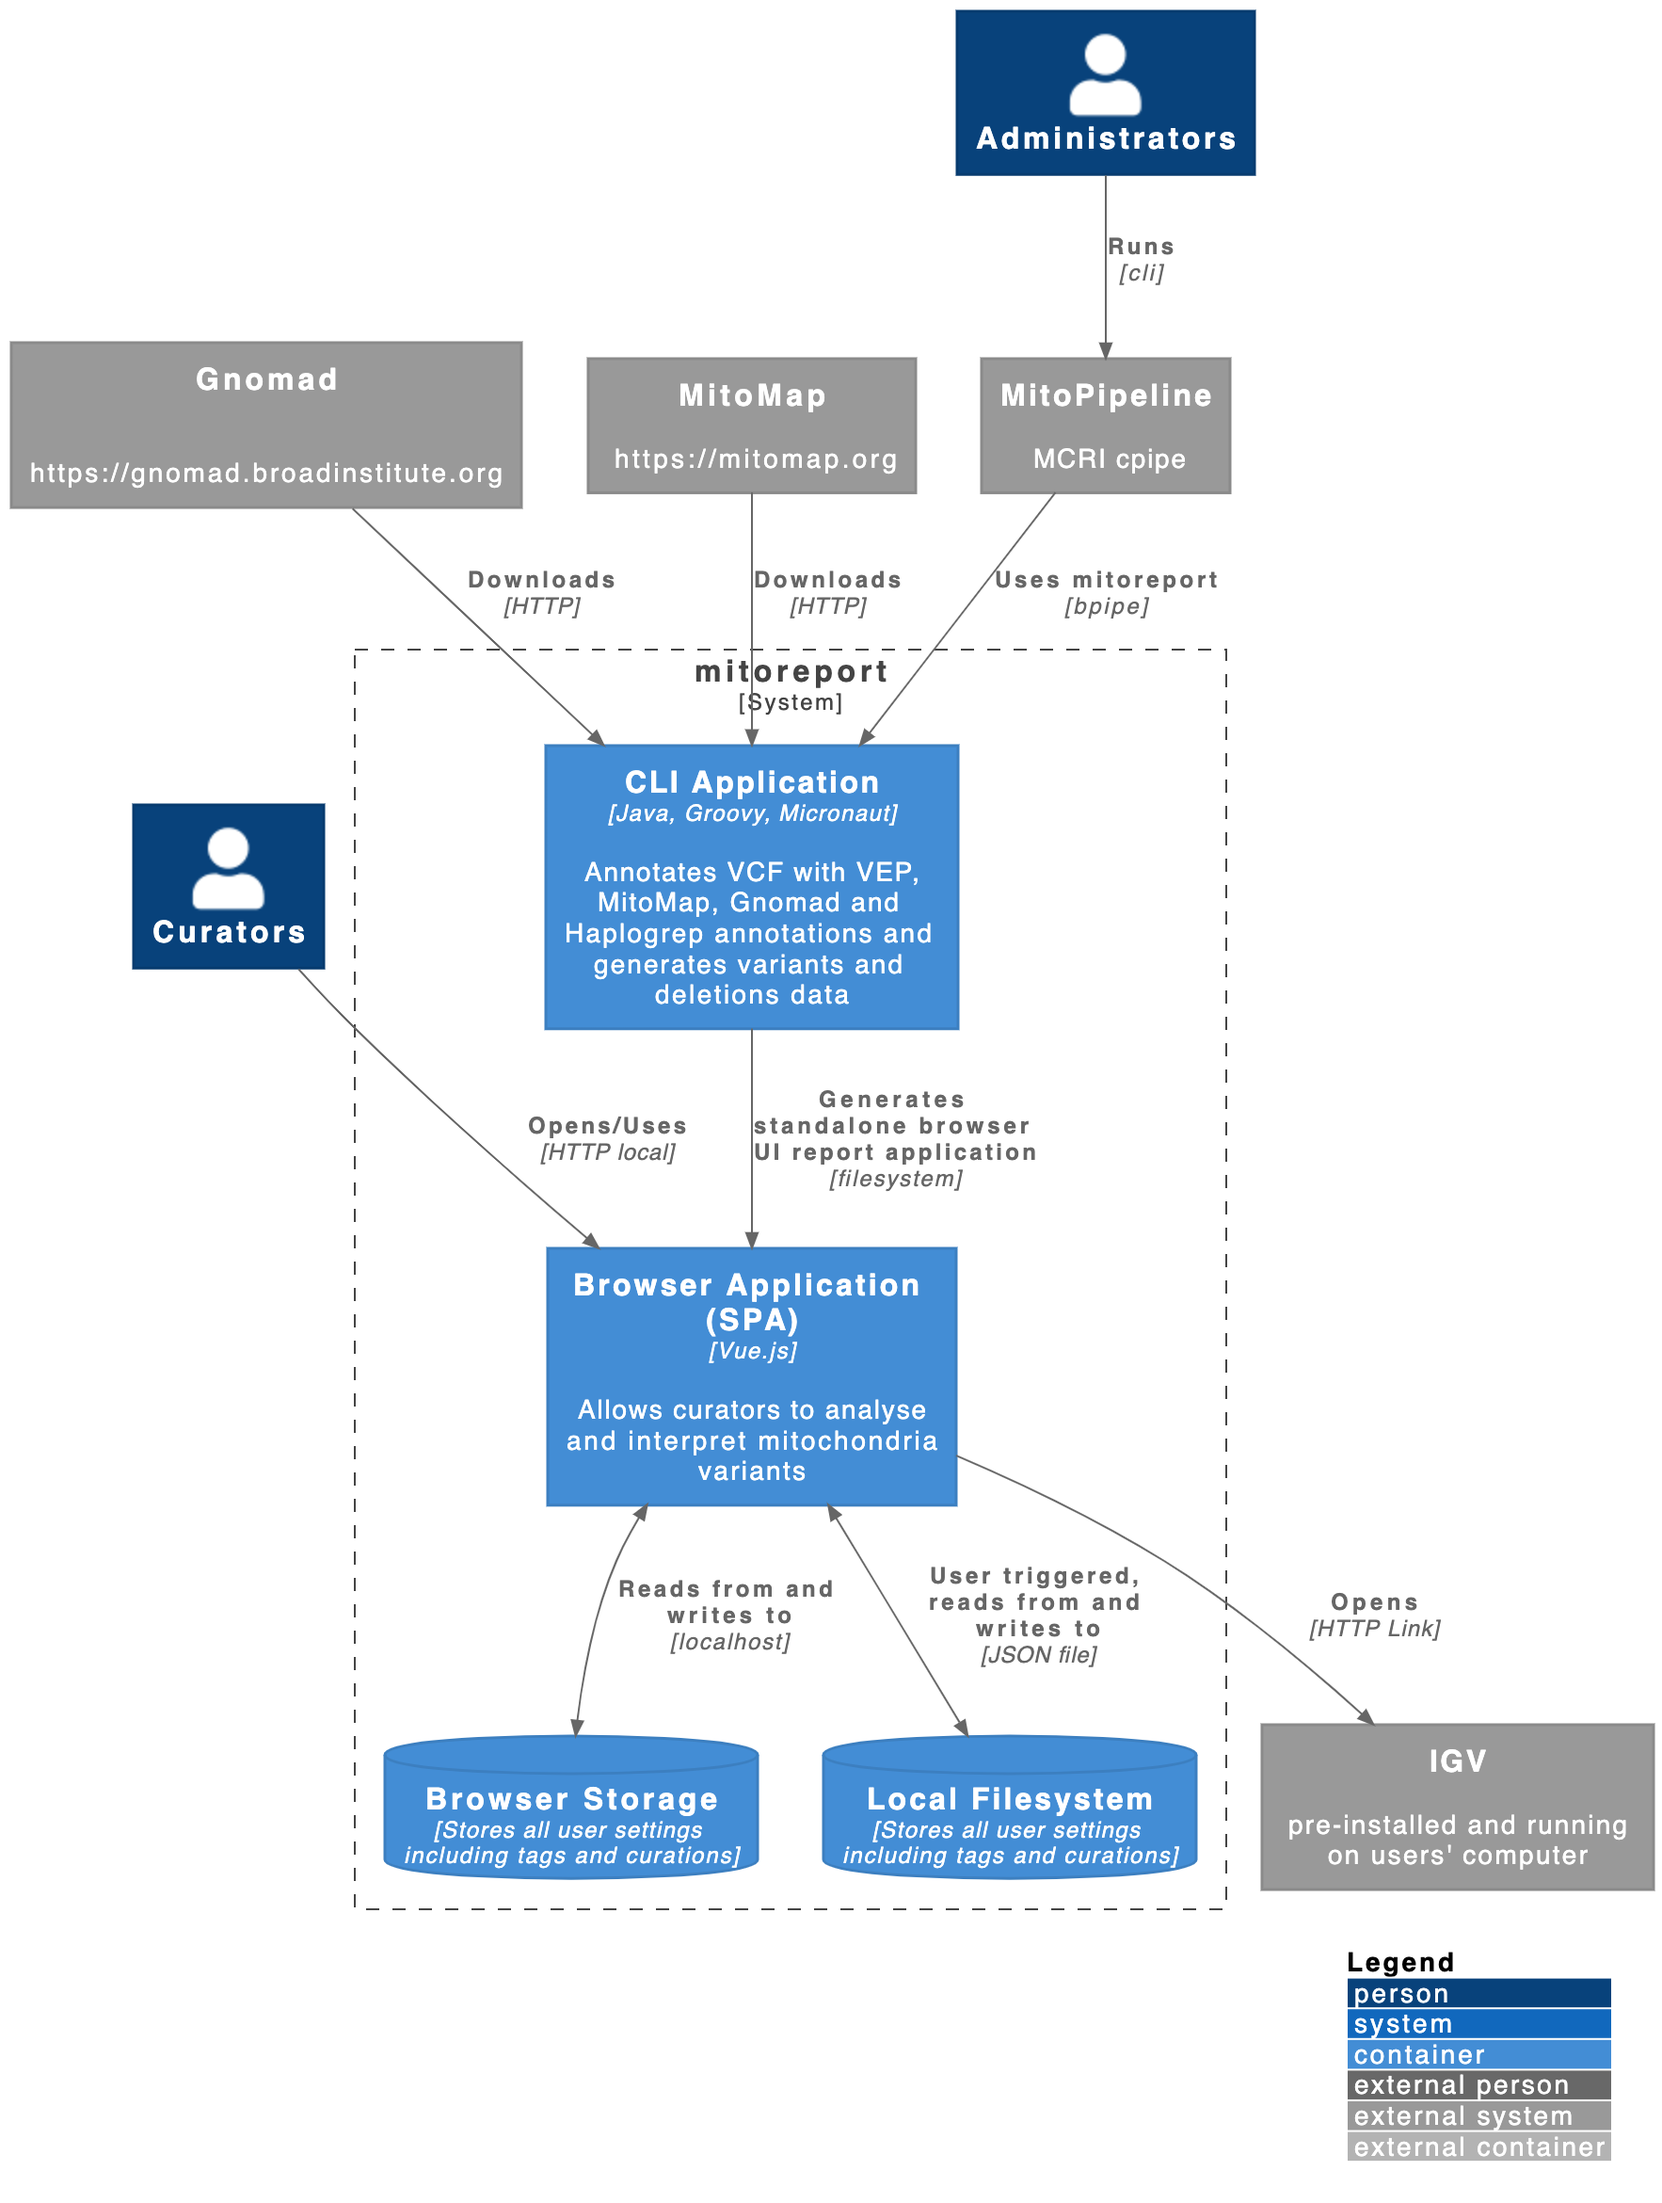
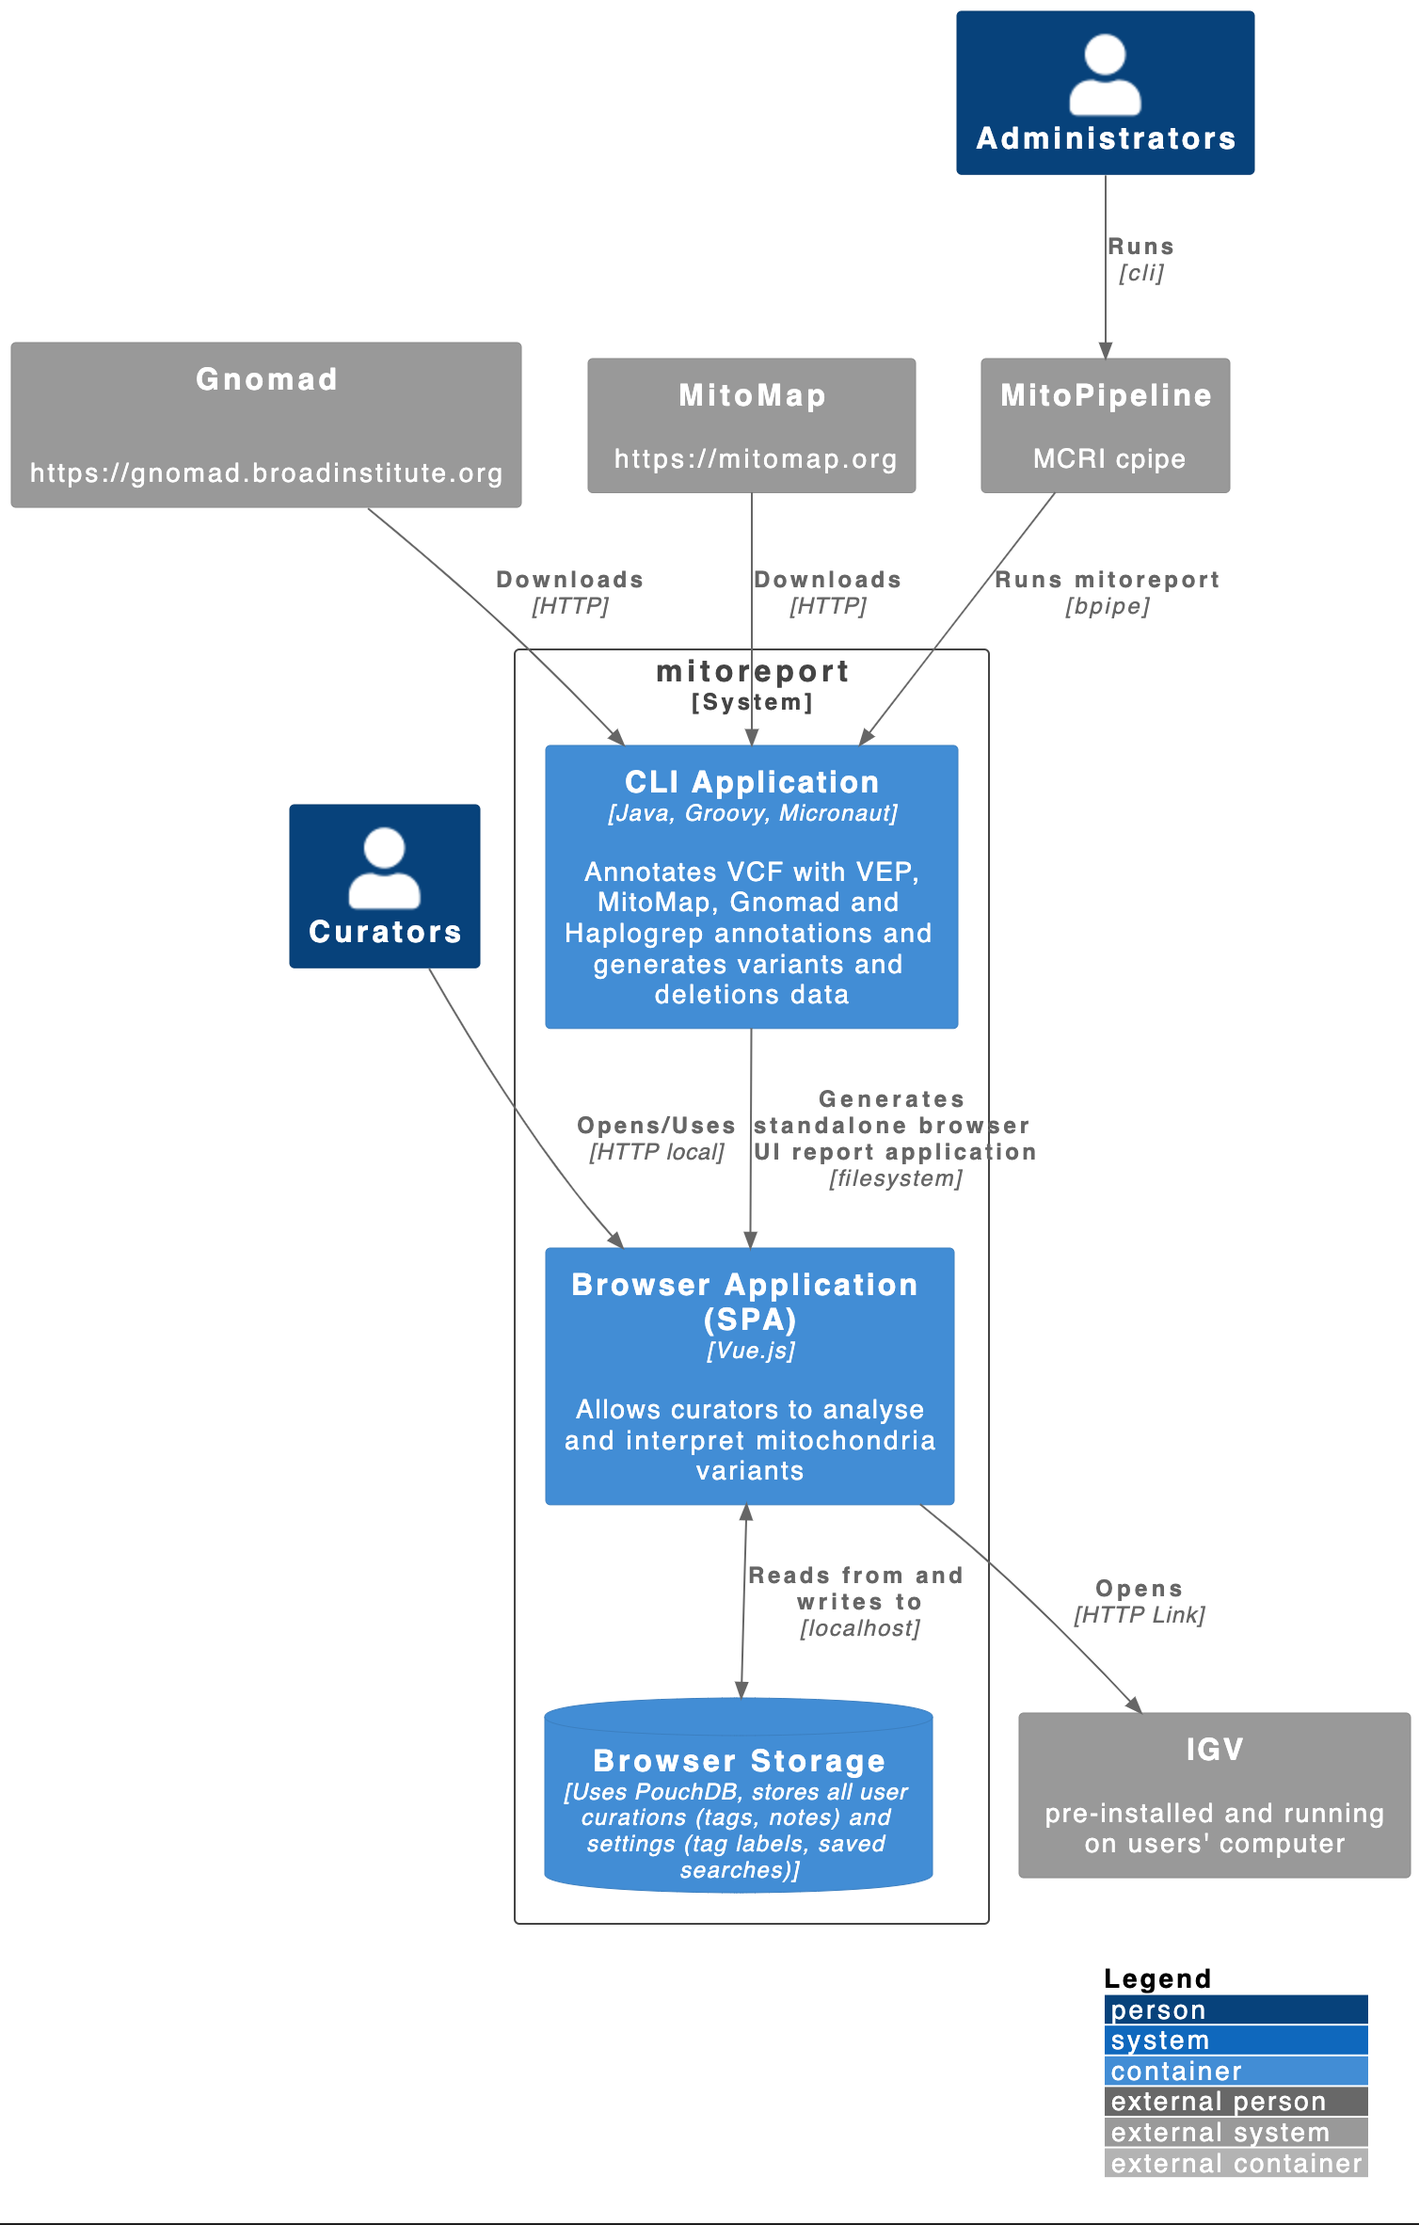
docs: Docs update and cleanup

Changed region(s): [[0.0, 0.156, 1.0, 1.0], [0.561, 0.0, 0.9038, 0.1248]]

diff --git a/ARCHITECTURE.md b/ARCHITECTURE.md
@@ -3,9 +3,11 @@
 MitoReport itself is a command line application that requires only Java to run. It takes VCF files and BAM files as
 input and writes out an HTML report that can be loaded in a browser or distributed on a web server for users to access.
 
+TODO: Add new diagram for syncing architecture using PouchDB and CouchDB
+
 The diagram below shows the overall architecture of MitoReport and how external components and systems interact with it.
 
-![MitoReport Architecture](docs/mitoreport_architecture.png)
+<!-- ![MitoReport Architecture](docs/mitoreport_architecture.png) -->
 
 ```plantuml
 @startuml
@@ -24,10 +26,9 @@ System_Boundary(c1, "mitoreport"){
 
     Container(mitoreport, "CLI Application", "Java, Groovy, Micronaut", "Annotates VCF with VEP, MitoMap, Gnomad and Haplogrep annotations and generates variants and deletions data")
 
-    ContainerDb(browser_storage, "Browser Storage", "Stores all user settings including tags and curations")
-
-    ContainerDb(local_fs, "Local Filesystem", "Stores all user settings including tags and curations")
-
+    ContainerDb(browser_storage, "Browser Storage", "Uses PouchDB, stores all user curations (tags, notes) and settings (tag labels, saved searches)")
+    
+    ' ContainerDb(remote_storage, "Remote Storage", "Optional hosted CouchDB, syncs data from browser_storage")
 }
 
 System_Ext(gnomad, "Gnomad", "https://gnomad.broadinstitute.org")
@@ -35,17 +36,16 @@ System_Ext(mitomap, "MitoMap", "https://mitomap.org")
 System_Ext(mito_pipeline, "MitoPipeline", "MCRI cpipe")
 System_Ext(igv, "IGV", "pre-installed and running on users' computer")
 
-
 Rel(curators, ui, "Opens/Uses", "HTTP local")
 Rel(admins, mito_pipeline, "Runs", "cli")
 Rel(mitoreport, ui, "Generates standalone browser UI report application", "filesystem")
-Rel(mito_pipeline, mitoreport, "Uses mitoreport", "bpipe")
+Rel(mito_pipeline, mitoreport, "Runs mitoreport", "bpipe")
 Rel(gnomad, mitoreport, "Downloads", "HTTP")
 Rel(mitomap, mitoreport, "Downloads", "HTTP")
 Rel(ui, igv, "Opens", "HTTP Link")
 
-BiRel(ui, local_fs, "User triggered, reads from and writes to", "JSON file")
 BiRel(ui, browser_storage, "Reads from and writes to", "localhost")
+' BiRel(browser_storage, remote_storage, "Syncs")
 
 @enduml
 ```

diff --git a/DEVELOPMENT.md b/DEVELOPMENT.md
@@ -5,8 +5,6 @@ This document provides setup instructions for developing MitoReport.
 ## Prerequisites
 
 * Java 8 installed, see [SdkMan](https://sdkman.io/) for managing different Java versions.
-* Java 8 AdoptOpenJDK "Hotspot" is recommended, e.g. 8.0.275.hs-adpt. j9 is too strict to allow the deprecated functions
-  used in the gngs submodule.
 
 ## TL;DR For Devs
 
@@ -30,11 +28,8 @@ java -jar "$PROJECT_DIR/build/libs/mitoreport-$APP_ARCHIVE_VERSION-all.jar" mito
 
 ```bash
 # Git clone repo and cd into it then set PROJECT_DIR env
+# Use git clone --recursive <repo> to recursively fetch all Git submodules
 PROJECT_DIR=$(pwd)
-
-# Clone submodules
-git submodule init
-git submodule update --init --recursive
 
 # Run tests, linting and coverage.  Detailed coverage reports can be found in `$PROJECT_DIR/ui/coverage/`
 ./gradlew check

diff --git a/README.md b/README.md
@@ -73,6 +73,8 @@ java -jar mitoreport-1.0.0-beta-1-all.jar mito-report \
     resources/test-sample/mitoreport-test-sample.bam ./resources/controls/*.bam
 ```
 
+Note: Use `--maternal-vcf` option to show any maternal variants within report.
+
 A new directory `mitoreport-MITOREPORT-TEST-SAMPLE` should now be created.  Open `index.html` to run this interactive
 report. For example, on MacOS use:
 
